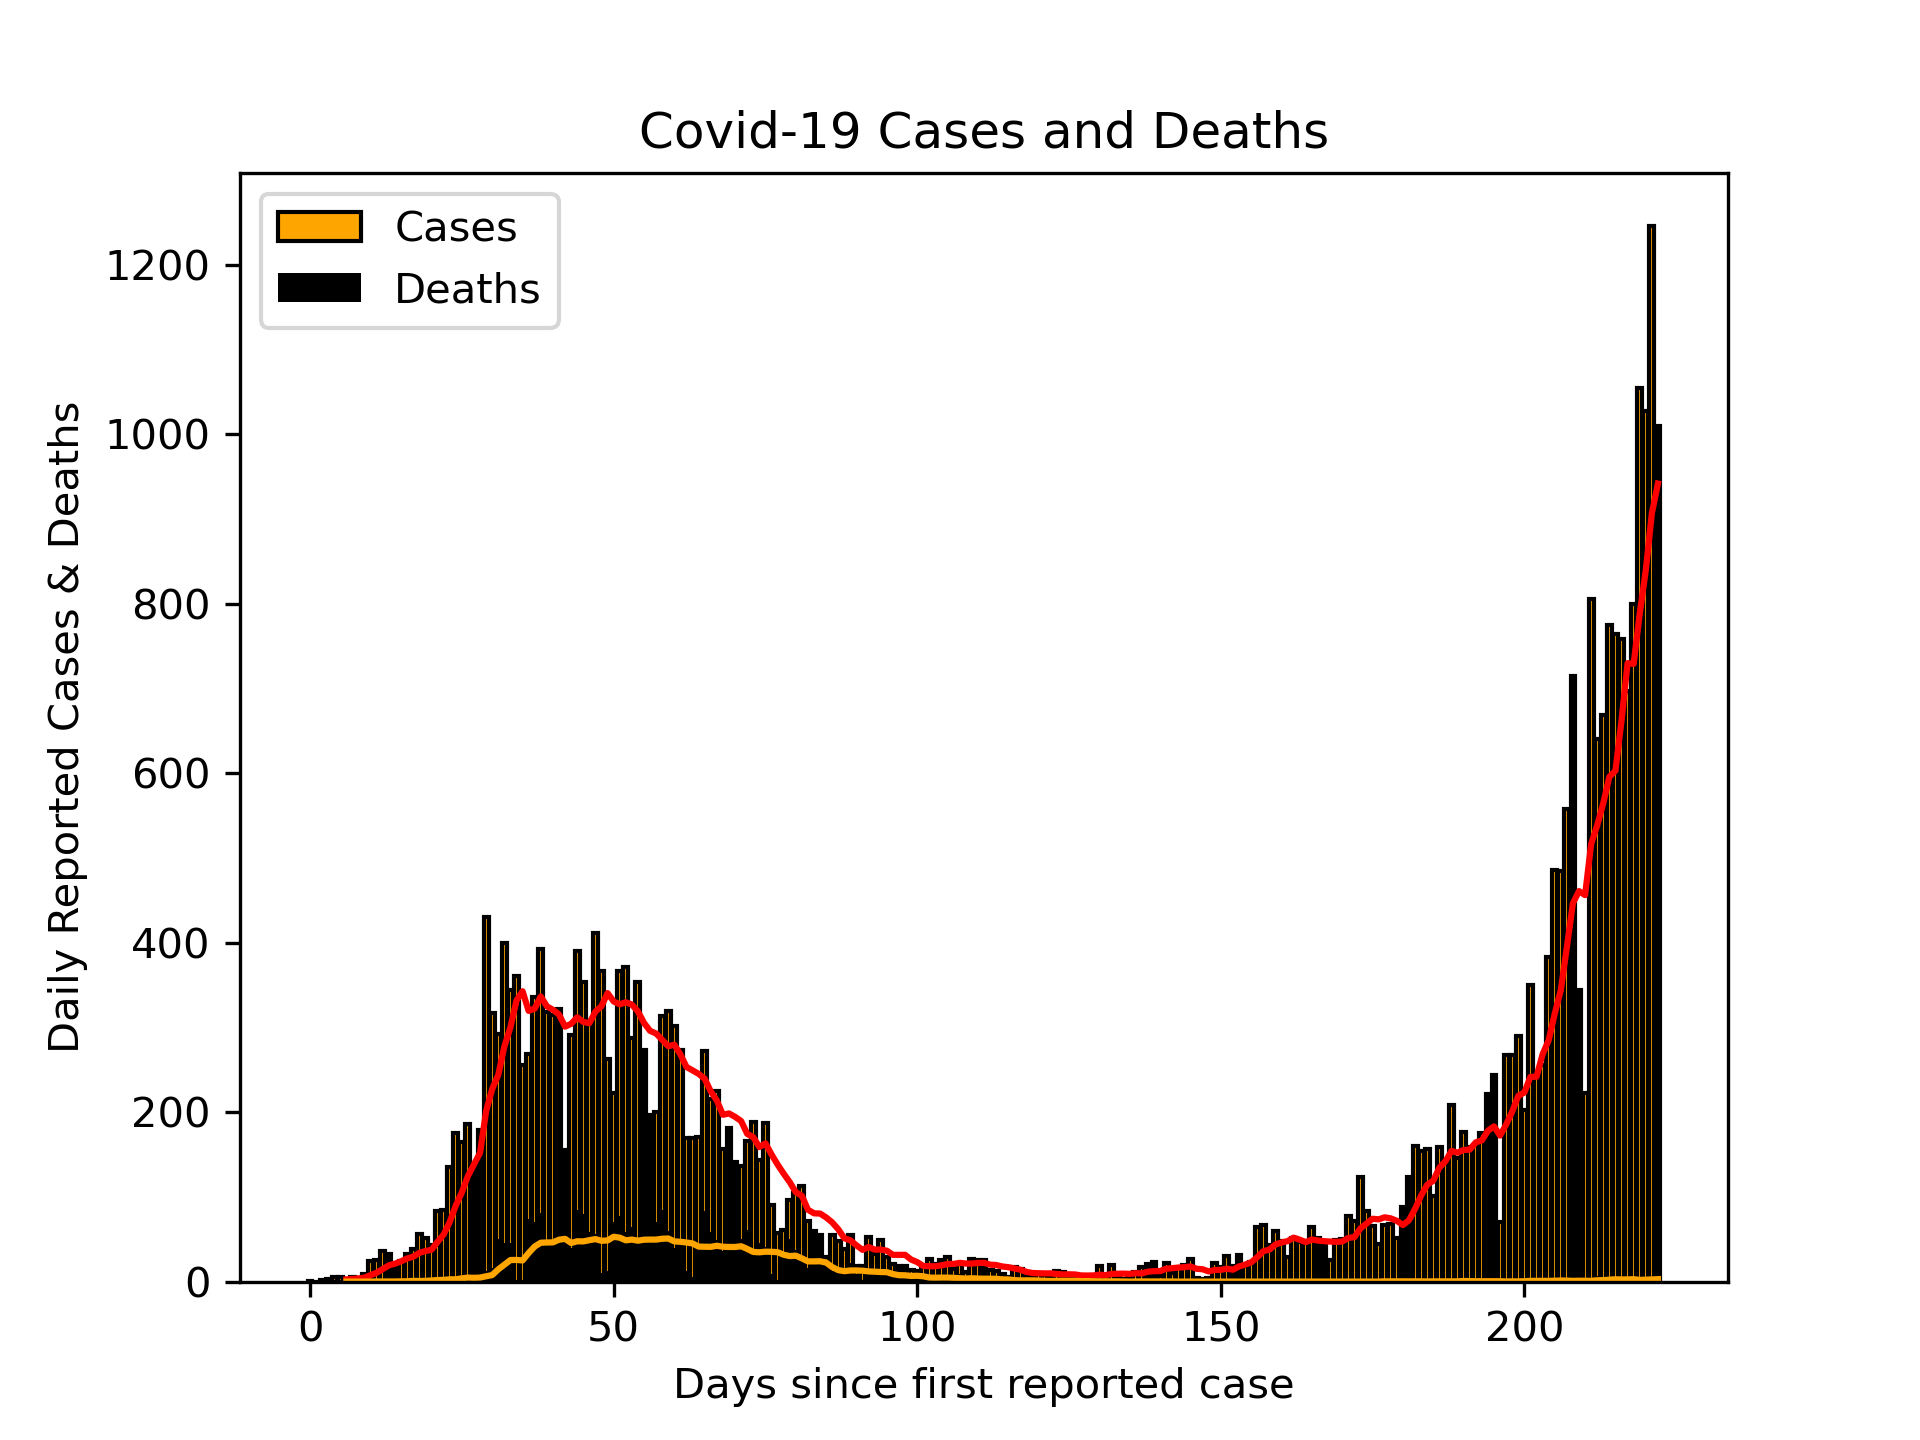
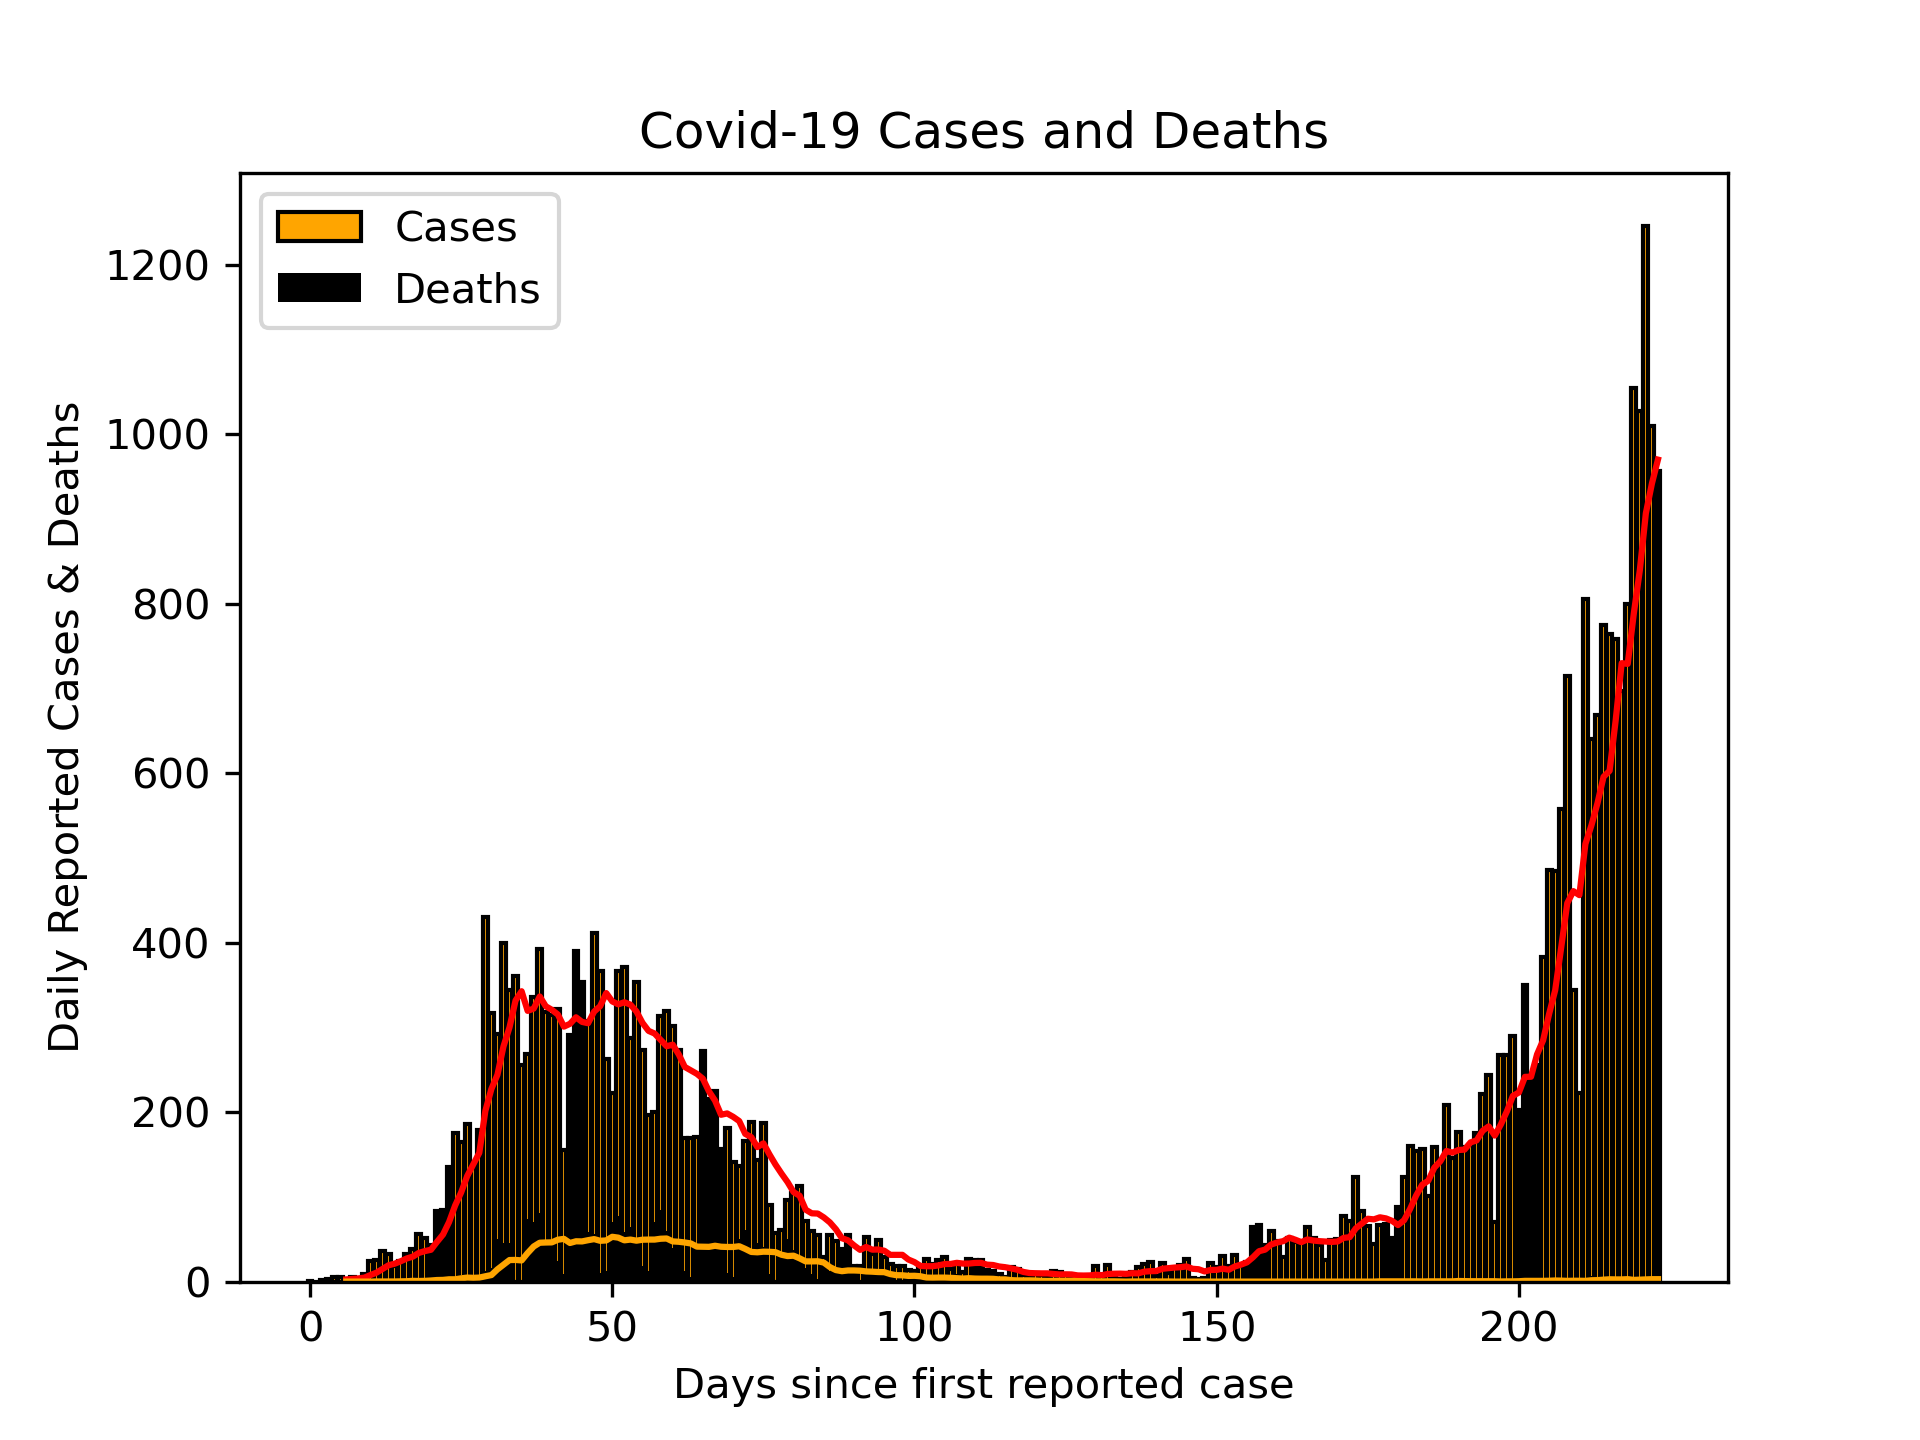
Updated Scottish cases 11/10/20

diff --git a/README.md b/README.md
@@ -1,3 +1,3 @@
-# Scottish Cases 10/10/20
+# Scottish Cases 11/10/20
 ![alt](scottish_cases.png)
 
